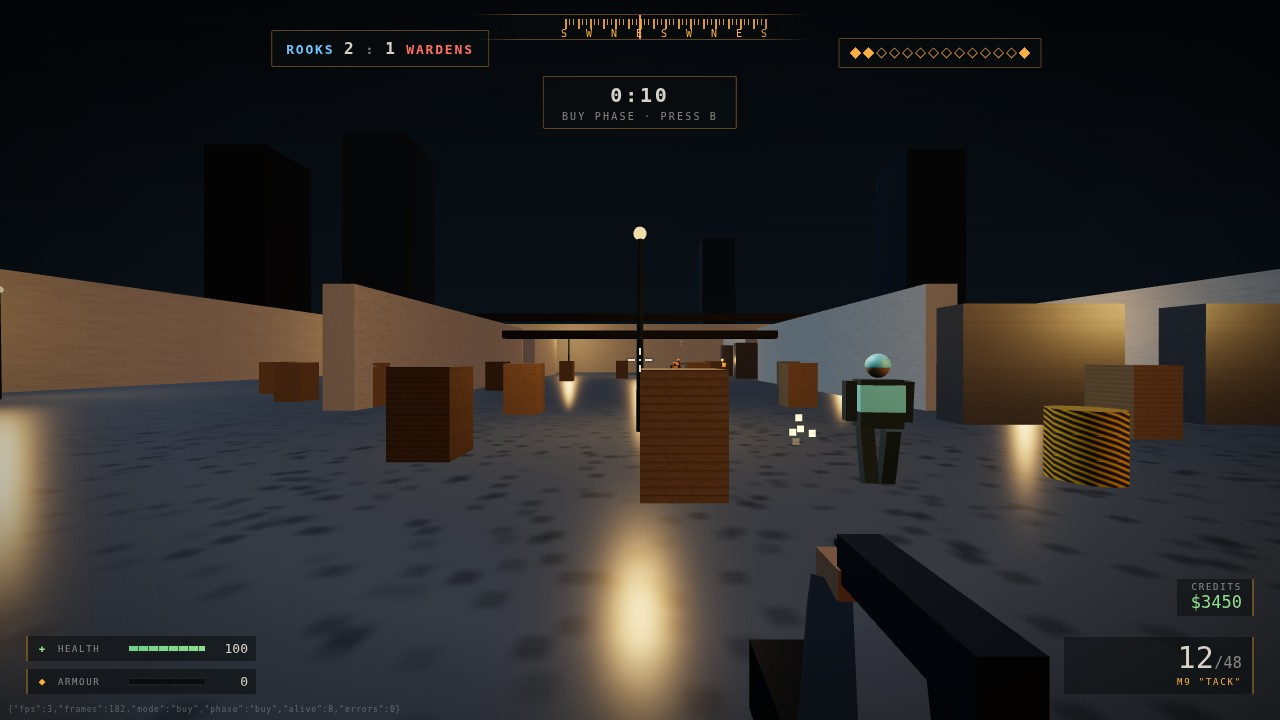
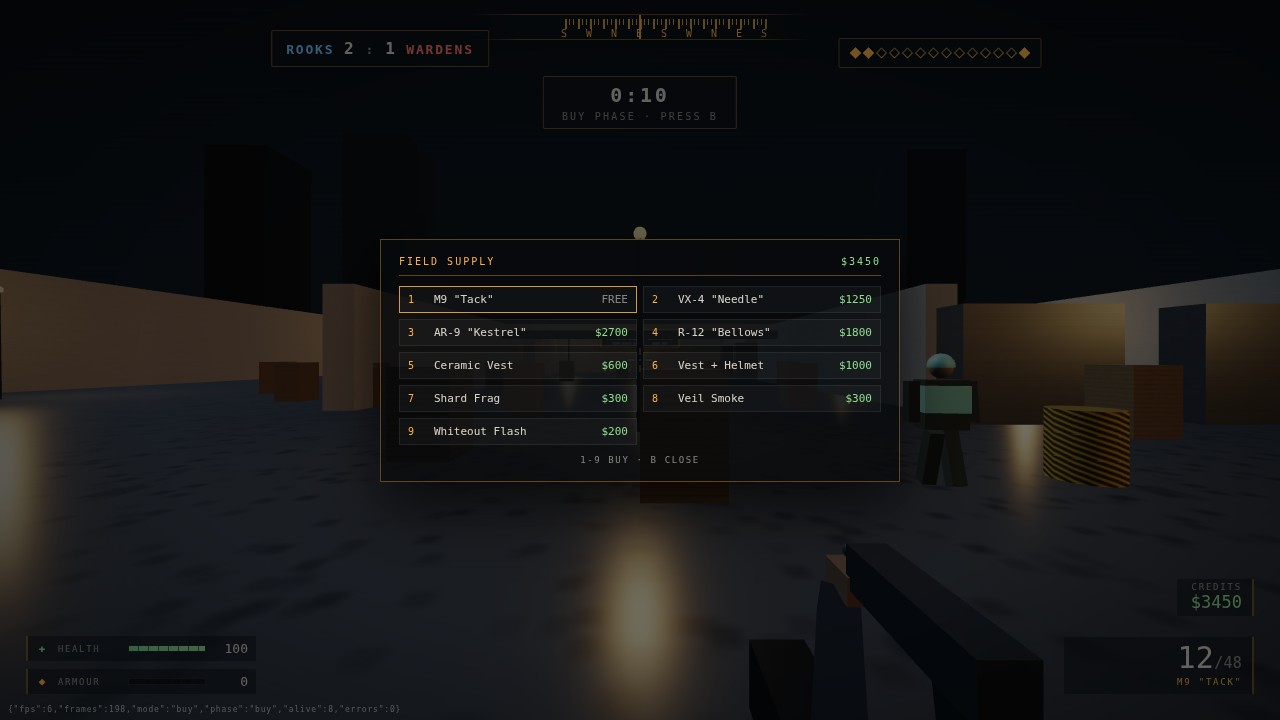
Look pass: foundry signage, hazard bands, sharper muzzle light, held sight picture; screenshots re-rendered from this commit

diff --git a/game/src/world.js b/game/src/world.js
@@ -27,8 +27,7 @@ export function buildWorld(scene) {
       boxes.push({ x0, y0, z0, x1, y1, z1 });
     }
   }
-  const ground = new THREE.Mesh(new THREE.PlaneGeometry(half * 2, half * 2), mats.wet);
-  ground.rotation.x = -Math.PI / 2;
+  const ground = new THREE.Mesh(new THREE.PlaneGeometry(half * 2, half * 2), mats.wet);  ground.rotation.x = -Math.PI / 2;
   scene.add(ground);
 
   const sites = {};
@@ -62,6 +61,47 @@ export function buildWorld(scene) {
     light.position.set(lx, 4.3, lz);
     scene.add(post, orb, light);
     lamps.push({ x: lx, y: 4.3, z: lz, light });
+  }
+
+  // The works' own signage: painted on canvas, hung over the north wall.
+  const signCanvas = document.createElement("canvas");
+  signCanvas.width = 512;
+  signCanvas.height = 128;
+  const g2 = signCanvas.getContext("2d");
+  g2.fillStyle = "#101718";
+  g2.fillRect(0, 0, 512, 128);
+  g2.strokeStyle = "#ffb040";
+  g2.lineWidth = 6;
+  g2.strokeRect(8, 8, 496, 112);
+  g2.fillStyle = "#ffc46b";
+  g2.font = "bold 54px monospace";
+  g2.textAlign = "center";
+  g2.textBaseline = "middle";
+  g2.fillText("KESSLER WORKS", 256, 56);
+  g2.fillStyle = "#7fd4c9";
+  g2.font = "20px monospace";
+  g2.fillText("PUMP HOUSE No. 4  \u00B7  KEEP OUT", 256, 98);
+  const signTex = new THREE.CanvasTexture(signCanvas);
+  signTex.colorSpace = THREE.SRGBColorSpace;
+  const sign = new THREE.Mesh(new THREE.PlaneGeometry(10, 2.5), new THREE.MeshBasicMaterial({ map: signTex }));
+  sign.position.set(0, 4.2, -30.9);
+  scene.add(sign);
+  const signLight = new THREE.PointLight(0xffb040, 9, 12, 2);
+  signLight.position.set(0, 3.4, -29.4);
+  scene.add(signLight);
+
+  // A hazard band around the yard at shoulder height breaks up the long walls.
+  const bandMat = new THREE.MeshStandardMaterial({ color: PAL.hazard, roughness: 0.8, emissive: PAL.hazard, emissiveIntensity: 0.18 });
+  const bandGeo = new THREE.BoxGeometry(1, 1, 1);
+  const bands = [
+    [-32, 1.5, -31.4, 64, 0.22, 0.12], [-31.4, 1.5, -32, 0.12, 0.22, 64],
+    [31.4, 1.5, -32, 0.12, 0.22, 64], [-32, 1.5, 31.4, 64, 0.22, 0.12],
+  ];
+  for (const [bx, by, bz, sx, sy, sz] of bands) {
+    const band = new THREE.Mesh(bandGeo, bandMat);
+    band.position.set(bx, by, bz);
+    band.scale.set(sx, sy, sz);
+    scene.add(band);
   }
 
   const drumGeo = new THREE.CylinderGeometry(0.42, 0.42, 0.95, 12);

diff --git a/game/src/shots.js b/game/src/shots.js
@@ -88,9 +88,9 @@ export function setupShot(name, seed, api) {
     aim(player, 0, 1.6, 10);
     for (let i = 0; i < allies.length; i++) place(allies[i], -3 + i * 3, 0, 20 + (i % 2) * 2, 0);
     for (let i = 0; i < enemies.length; i++) place(enemies[i], -6 + i * 4, 0, -20, 0);
-    buyMenu.setOpen(true);
     S.phase = "buy";
     S.phaseT = 14;
+    buyMenu.setOpen(true);
   } else if (name === "fight") {
     place(player, 25, 0, -17, 0);
     aim(player, 13, 1.3, -17);
@@ -109,26 +109,28 @@ export function setupShot(name, seed, api) {
     place(enemies[3], 8, 0, -20, 0);
     aim(enemies[3], 24, 1.3, -17);
     for (const a of agents) if (a.bot) { a.bot.reactT = 0; a.bot.seeT = 0.6; }
-    hud.banner("ROUND 5", "SITE A · ROOKS PUSH", 3);
+    hud.banner("ROUND 5", "SITE A \u00B7 ROOKS PUSH", 3);
   } else {
-    // objective: the charge is down at site A and the clock is running out.
+    // objective: the charge is down at site A and the wardens are coming to it.
     rounds.forcePlant("A");
     rounds.bomb.fuse = 34;
-    place(player, 24.5, 0, -23.5, 0);
-    aim(player, 27, 0.35, -27);
+    place(player, 19.5, 0, -20, 0);
+    aim(player, 27, 0.6, -27);
     player.crouched = true;
     STATE.input.crouch = true;
-    place(allies[0], 23.5, 0, -21.5, 0);
-    aim(allies[0], 26, 0.5, -26);
-    place(allies[1], 29, 0, -21, 0);
-    aim(allies[1], 27, 0.5, -27);
-    place(allies[2], 21, 0, -25, 0);
-    place(enemies[0], 14, 0, -22, 0);
-    aim(enemies[0], 25, 1.3, -25);
-    place(enemies[1], 17, 0, -14, 0);
-    place(enemies[2], 9, 0, -16, 0);
-    place(enemies[3], 20, 0, -10, 0);
-    hud.banner("CHARGE ARMED", "SITE A · 34S", 4);
+    player.eye = 1.62;
+    place(allies[0], 23, 0, -23, 0);
+    aim(allies[0], 27, 1.0, -27);
+    place(allies[1], 16.5, 0, -24, 0);
+    aim(allies[1], 26, 1.0, -26.5);
+    place(allies[2], 21, 0, -16.5, 0);
+    place(enemies[0], 26.4, 0, -26.2, 0);
+    aim(enemies[0], 27, 0.4, -27);
+    place(enemies[1], 30, 0, -23, 0);
+    aim(enemies[1], 20, 1.3, -20);
+    place(enemies[2], 24, 0, -29.5, 0);
+    place(enemies[3], 30.5, 0, -28, 0);
+    hud.banner("CHARGE ARMED", "SITE A \u00B7 34S", 4);
   }
 
   S.phase = name === "buy" ? "buy" : "live";

diff --git a/game/src/viewmodel.js b/game/src/viewmodel.js
@@ -14,14 +14,14 @@ const SKIN = 0x8a6b52;
 function box(w, h, d, color, rough) {
   return new THREE.Mesh(
     new THREE.BoxGeometry(w, h, d),
-    new THREE.MeshStandardMaterial({ color, metalness: 0.55, roughness: rough ?? 0.45 }),
+    new THREE.MeshStandardMaterial({ color, metalness: 0.35, roughness: rough ?? 0.65 }),
   );
 }
 
 function tube(r, len, color) {
   return new THREE.Mesh(
     new THREE.CylinderGeometry(r, r, len, 10),
-    new THREE.MeshStandardMaterial({ color, metalness: 0.8, roughness: 0.35 }),
+    new THREE.MeshStandardMaterial({ color, metalness: 0.6, roughness: 0.5 }),
   );
 }
 
@@ -96,7 +96,7 @@ function buildShape(id) {
 
 export function buildViewmodel(camera) {
   const root = new THREE.Group();
-  root.scale.setScalar(0.66);
+  root.scale.setScalar(0.6);
   root.position.set(0.19, -0.2, -0.34);
   camera.add(root);
 

diff --git a/game/src/materials.js b/game/src/materials.js
@@ -15,7 +15,7 @@ const speckle = (g, c, n) => { for (let i = 0; i < n; i++) { g.fillStyle = c; g.
 const mat = (map, o) => new THREE.MeshStandardMaterial({ map, ...o });
 
 export function buildMaterials() {
-  const concrete = mat(tex(4, g => { fill(g, "#98958e"); speckle(g, "#6b6963", 900); }), { roughness: 0.95 });
+  const concrete = mat(tex(9, g => { fill(g, "#a09d95"); speckle(g, "#6b6963", 900); }), { roughness: 0.95 });
   const steel = mat(tex(2, g => {
     fill(g, "#8d949c");
     for (let y = 0; y < 128; y += 2) { g.globalAlpha = 0.1 + Math.random() * 0.25; g.fillStyle = "#c2c9d1"; g.fillRect(0, y, 128, 1); }

diff --git a/game/src/effects.js b/game/src/effects.js
@@ -41,7 +41,7 @@ export function createEffects(scene) {
   let partHead = 0;
   let anyParticle = false;
 
-  const muzzleLight = new THREE.PointLight(PAL.lamp, 0, 12, 2);
+  const muzzleLight = new THREE.PointLight(PAL.lamp, 0, 9, 2);
   scene.add(muzzleLight);
   let muzzleT = 0;
 
@@ -96,7 +96,7 @@ export function createEffects(scene) {
 
     muzzle(p, byPlayer) {
       muzzleLight.position.set(p.x, p.y, p.z);
-      muzzleLight.intensity = byPlayer ? 9 : 5;
+      muzzleLight.intensity = byPlayer ? 2.6 : 1.8;
       muzzleT = 0.05;
     },
 
